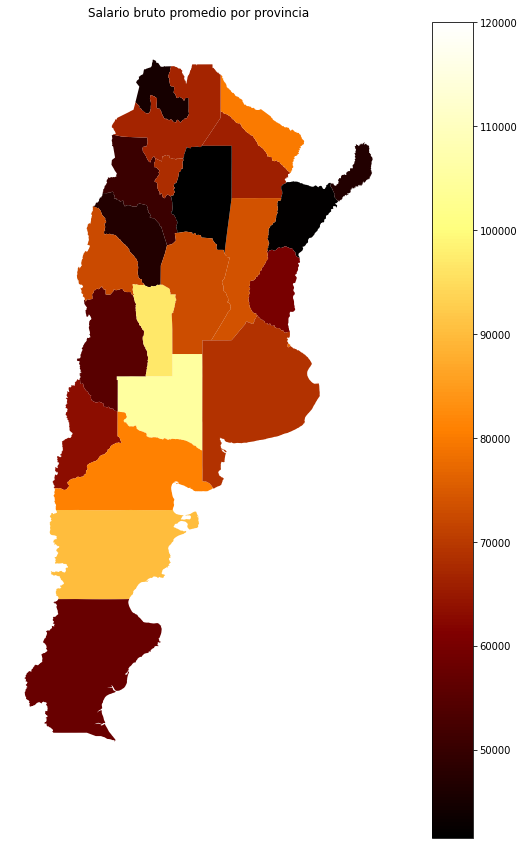
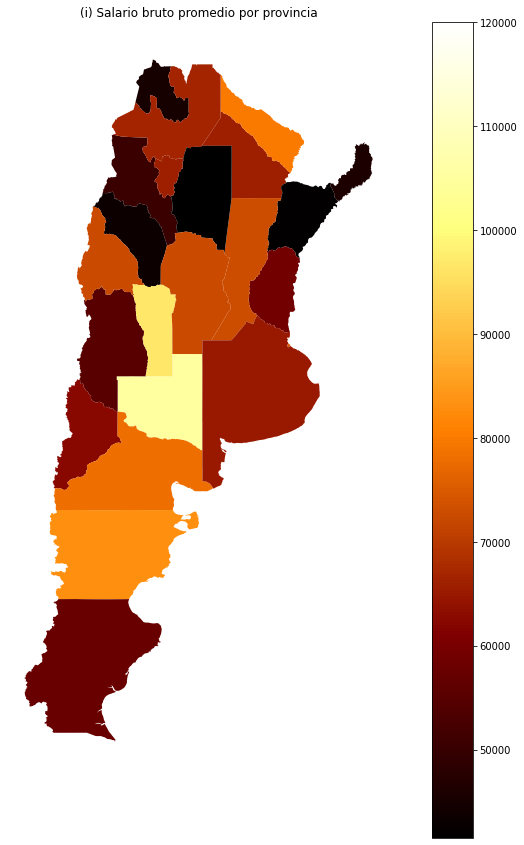
Complete notes

Changed region(s): [[0.0916, 0.3692, 0.6107, 0.7077], [0.1527, 0.0, 0.6107, 0.0308]]

diff --git a/text/prediccion-de-sueldo/README.md b/text/prediccion-de-sueldo/README.md
@@ -139,7 +139,7 @@ el género, la provincia en que trabaja y cuántos años de experiencia tiene.
 Entonces, un modelo sencillo que podemos construir consiste en tomar
 en cuenta sólo estas características y tratar de ubicar la línea recta que más
 cerca pase de los puntos, o sea, armar un modelo de [regresión
-lineal](https://es.wikipedia.org/wiki/Regresi%C3%B3n_lineal) como el que se muestra en el gráfico (g). HAY QUE PONERLE LA ETIQUETA.
+lineal](https://es.wikipedia.org/wiki/Regresi%C3%B3n_lineal) como el que se muestra en el gráfico (g).
 
 ![Varios puntos dispersos que muestran una tendencia positiva y una línea
 que la grafica](linear-regression.png)
@@ -168,7 +168,7 @@ menos le va a significar, en el sueldo, la adición de uno nuevo.
 Una buena manera de ajustar este comportamiento es usando una función
 logarítmica porque nos permite transformar un número en otro manteniendo el
 orden pero achicando la distancia con el siguiente a medida de que el número se
-hace mayor. En el gráfico (h) PONERLE LA ETIQUETA vemos como el valor correspondiente a 1 está más
+hace mayor. En el gráfico (h) vemos como el valor correspondiente a 1 está más
 lejos del de 0 que el correspondiente al 7 respecto del de 6.
 
 También podrímos aplicar logaritmo al salario porque no es lo mismo ganar $1.000
@@ -217,11 +217,39 @@ que tienen muy pocas respuestas y eso dificulta la generalización. Recordemos
 que los datos en pequeña escala no son confiables por la forma de la encuesta
 así que tratemos de agruparlos en bloques más grandes.
 
-VOLARÍA LOS GRÁFICOS DE CANTIDAD DE RESPUESTAS POR PROVINCIA PORQUE CONFUNDEN.
+###### Cantidad de respuestas por provincia.
+
+
+| Provincia | Cantidad de respuestas |
+| --------- | ------------:|
+| Ciudad Autónoma de Buenos Aires | 3961 |
+| Catamarca | 2 |
+| Chaco | 33 |
+| Chubut | 21 |
+| Corrientes | 16 |
+| Entre Ríos | 39 |
+| Formosa | 3 |
+| Jujuy | 13 |
+| La Pampa | 2 |
+| La Rioja | 7 |
+| Mendoza | 109 |
+| Misiones | 21 |
+| Neuquén | 25 |
+| Río Negro | 21 |
+| Salta | 10 |
+| San Juan | 6 |
+| San Luis | 6 |
+| Santa Cruz | 2 |
+| Santa Fe | 279 |
+| Santiago del Estero | 4 |
+| Tucumán | 26 |
+| Córdoba | 310 |
+| Provincia de Buenos Aires | 431 |
+| Tierra del Fuego | 5 |
 
 El problema es que hay muy pocos datos fuera de la Ciudad de Buenos Aires, la Provincia
 de Buenos Aires, Santa Fe y Córdoba. 
-Lo que podríamos hacer es analizar los sueldos promedio en cada provincia (gráfico (i)) PONERLE ETIQUETA. Esto nos puede dar una
+Lo que podríamos hacer es analizar los sueldos promedio en cada provincia (gráfico (i)). Esto nos puede dar una
 idea de qué provincias, que tengan pocos datos, podrían formar parte de un mismo bloque porque
 consideramos que tienen similitudes culturales y esperamos que el
 comportamiento sea semejante.
@@ -244,10 +272,9 @@ La decisión de cómo agrupar las provincias es en parte arbitraria y podría
 hacerse distinto. Por ejemplo, San Luis y La Pampa, con pocos registros, no
 se parecen tanto a ninguna provincia de la zona.
 
-YO SACARÍA LOS GRÁFICOS DE SALARIO POR REGIONES Y NÚMEROS DE RESPUESTA PORQUE DESPUÉS DECÍS QUE HAY MEJORES OPCIONES.
-
 Ahora que tenemos las regiones, podríamos usar el promedio de cada región en
-lugar del promedio de cada provincia en nuestro modelo. Sin embargo, podemos también pensar en otras alternativas que nos darían
+lugar del promedio de cada provincia en nuestro modelo. Sin embargo, podemos
+también pensar en otras alternativas que nos darían
 mejores resultados para características categóricas (región, género, etc.).
 
 ##### Datos categóricos
